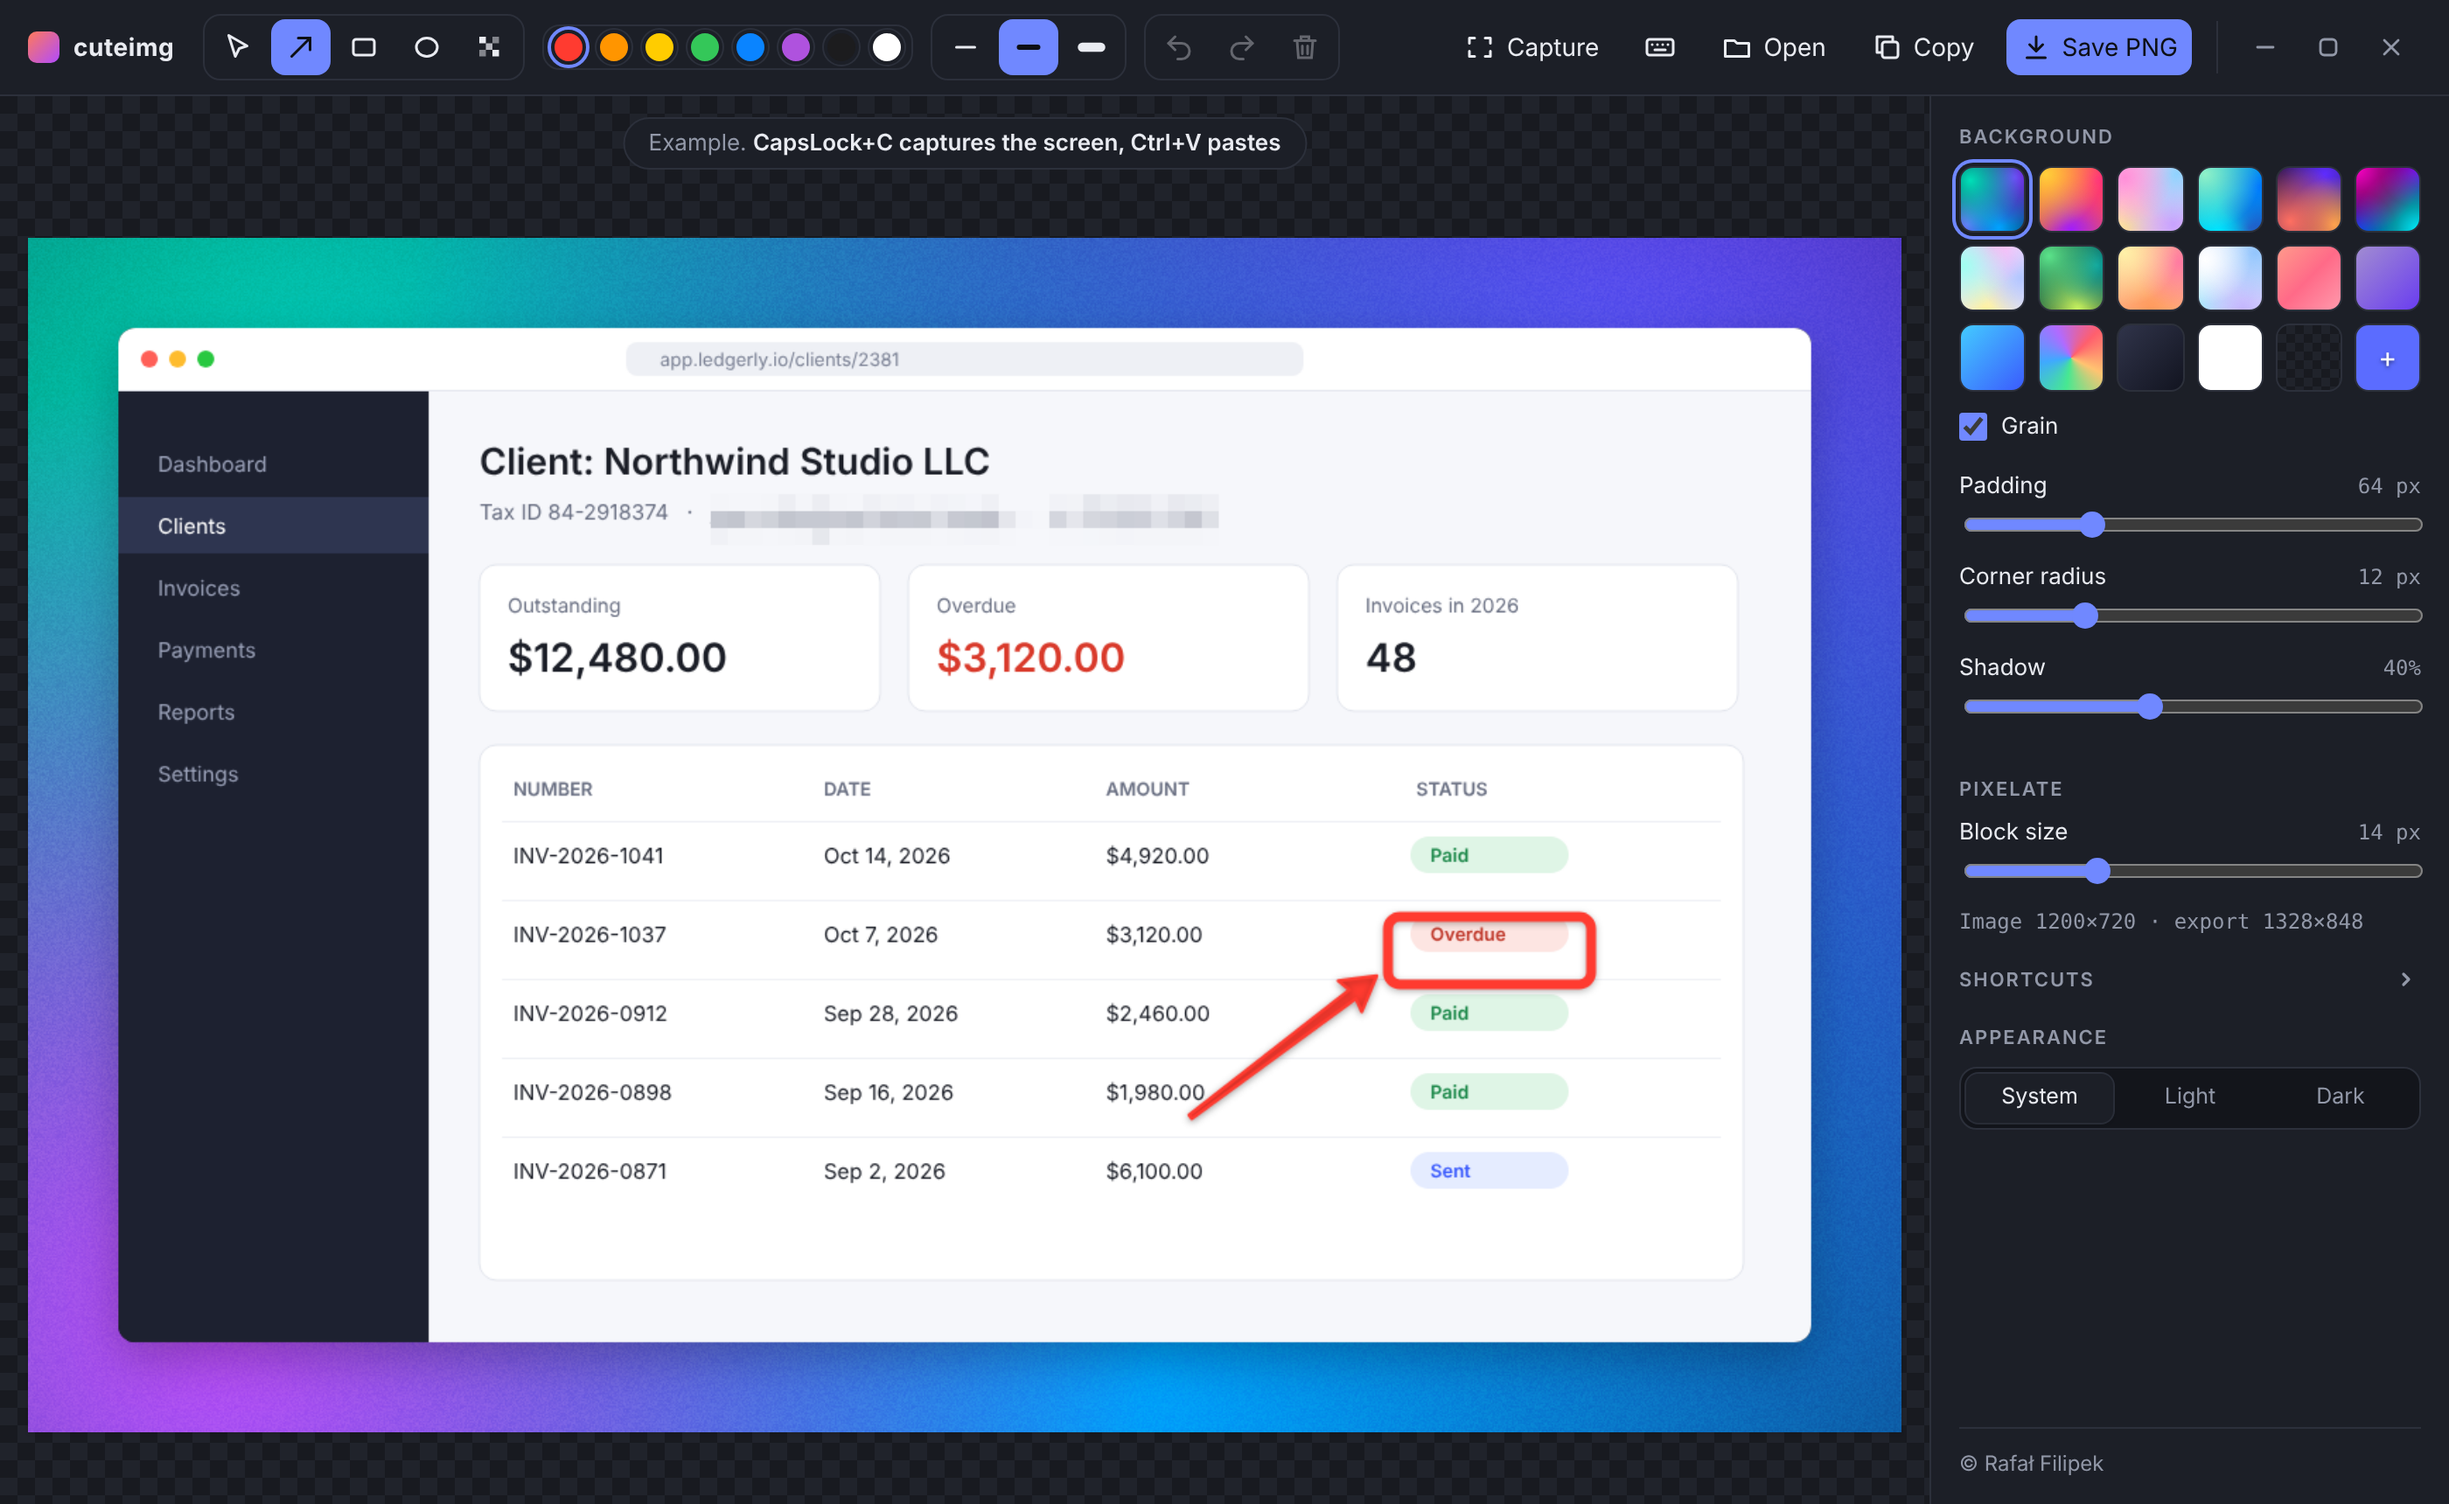
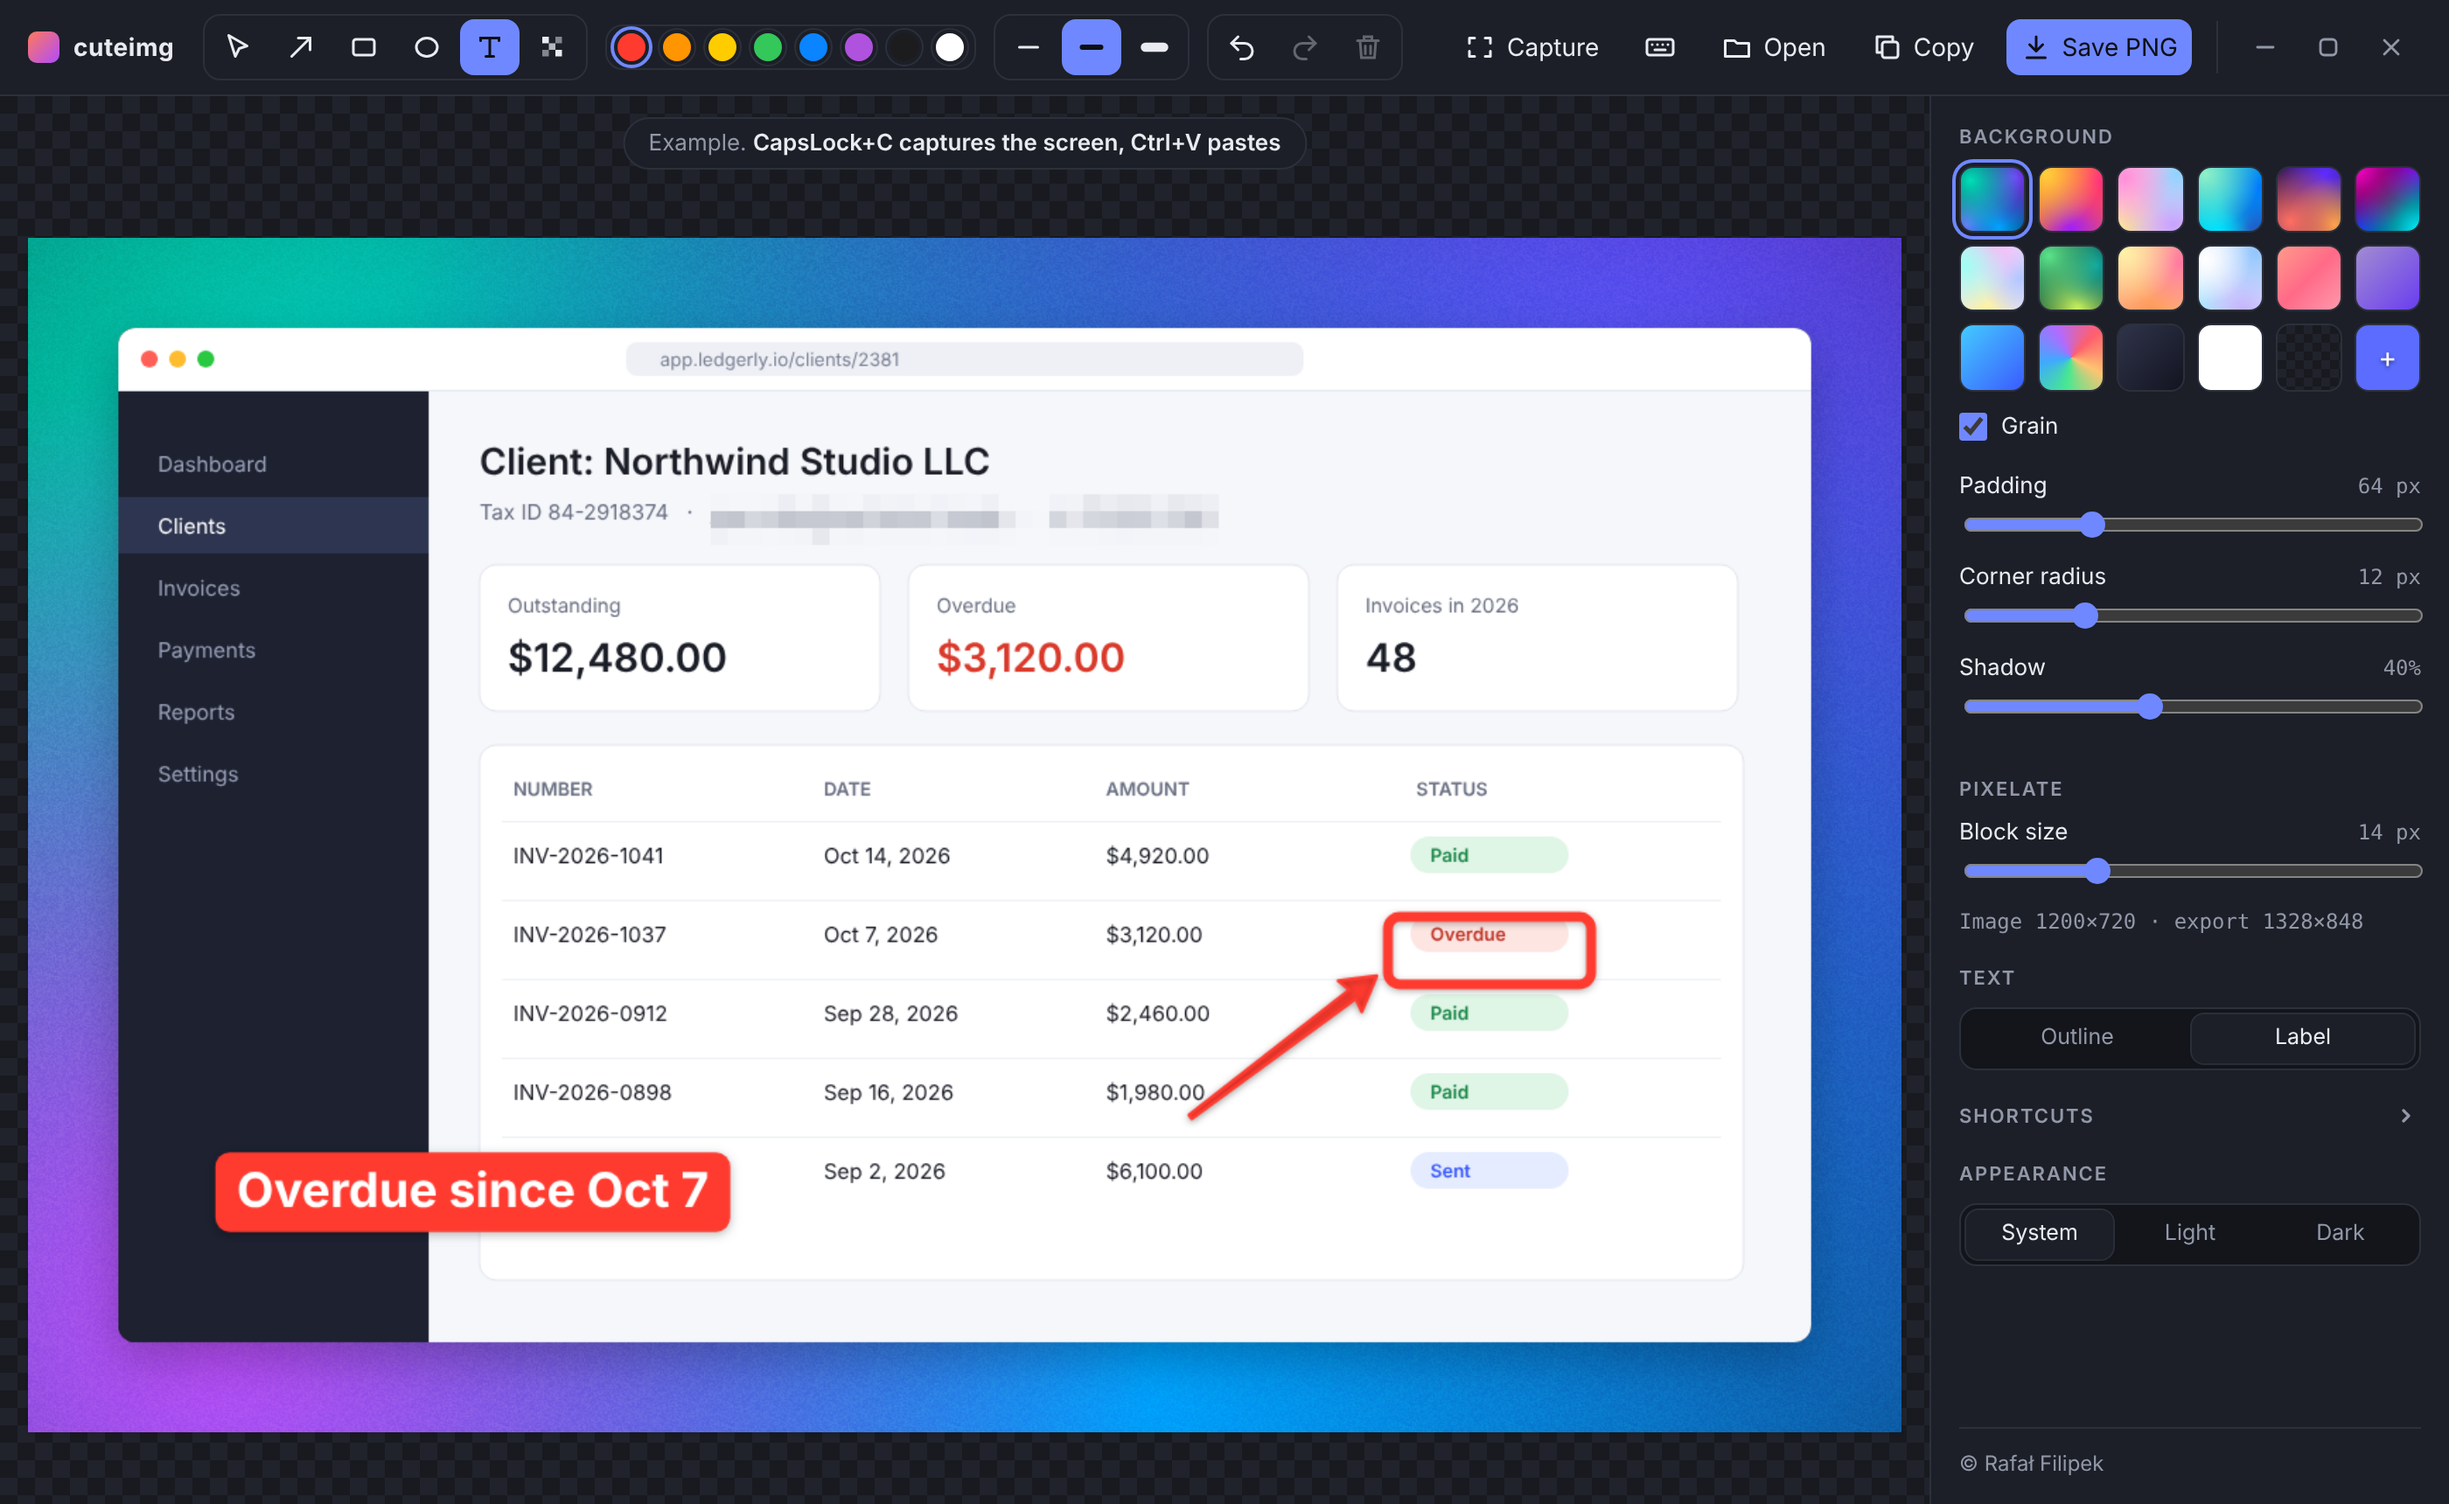
Text tool in the README, changelog for 0.2.0 and fresh screenshots
Claude-Session: https://claude.ai/code/session_01GWBZdBuMdncH14KhkzrgY3

diff --git a/README.md b/README.md
@@ -1,6 +1,6 @@
 # cuteimg
 
-Beautiful screenshots on Windows, macOS and Linux. Capture or paste a screenshot, put it on a gradient background, mark it up with arrows, rectangles and circles, pixelate anything private, then copy or save it. A CleanShot X–style editor built with [MyGo](https://mygo.egoist.dev).
+Beautiful screenshots on Windows, macOS and Linux. Capture or paste a screenshot, put it on a gradient background, mark it up with arrows, rectangles, circles and text, pixelate anything private, then copy or save it. A CleanShot X–style editor built with [MyGo](https://mygo.egoist.dev).
 
 <picture>
   <source media="(prefers-color-scheme: dark)" srcset="docs/screenshot-dark.png">
@@ -14,6 +14,7 @@ Beautiful screenshots on Windows, macOS and Linux. Capture or paste a screenshot
 - **Backgrounds:** mesh gradients (Aurora, Lava, Candy, Lagoon, Dusk, Neon, Holo, Forest, Peach, Ice), linear gradients, a rainbow, white, a custom color or none, with optional film grain.
 - **Frame:** padding, corner radius and drop shadow.
 - **Annotations:** arrows, rectangles and ellipses in eight colors and three thicknesses. Hold Shift for a square, a circle or a 45° arrow. Select, move, resize and delete them.
+- **Text** in two styles: bold text with an outline, or a label on a rounded color tag. Click to type, Shift+Enter for a new line, double-click to edit. The thickness buttons set its size.
 - **Pixelate** an area to hide emails, names or tokens, with an adjustable block size.
 - **Undo and redo** for every change.
 - **Copy** the result to the clipboard (Ctrl+C) or **save** a PNG (Ctrl+S).
@@ -25,7 +26,8 @@ Beautiful screenshots on Windows, macOS and Linux. Capture or paste a screenshot
 |---|---|---|---|
 | Capture an area (global, by default) | CapsLock+C | Cmd+Shift+2 | Ctrl+Shift+2 |
 | Paste an image | Ctrl+V | ⌘V | Ctrl+V |
-| Select / Arrow / Rectangle / Ellipse / Pixelate | V / A / R / O / P | same | same |
+| Select / Arrow / Rectangle / Ellipse / Text / Pixelate | V / A / R / O / T / P | same | same |
+| Edit a text | Double-click | Double-click | Double-click |
 | Undo / Redo | Ctrl+Z / Ctrl+Y | ⌘Z / ⌘⇧Z | Ctrl+Z / Ctrl+Y |
 | Delete the selected shape | Delete | Delete | Delete |
 | Copy the result | Ctrl+C | ⌘C | Ctrl+C |

diff --git a/CHANGELOG.md b/CHANGELOG.md
@@ -1,5 +1,10 @@
 # Changelog
 
+## 0.2.0
+
+- Add text to screenshots with the new Text tool (T): bold text with an outline, or a label on a rounded color tag. Switch styles in the side panel, use Shift+Enter for a new line and double-click to edit.
+- The toolbar fits narrow windows without hiding the window buttons.
+
 ## 0.1.0
 
 The first release of cuteimg.
